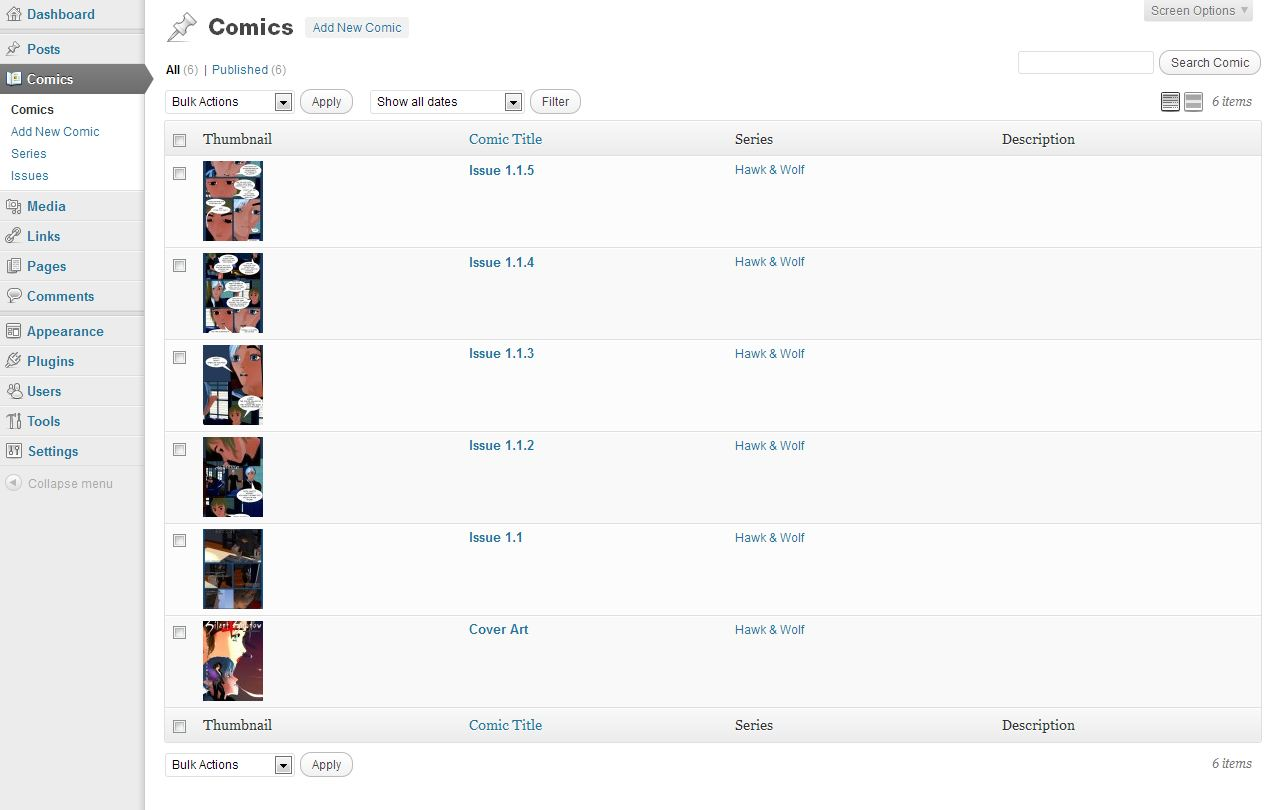
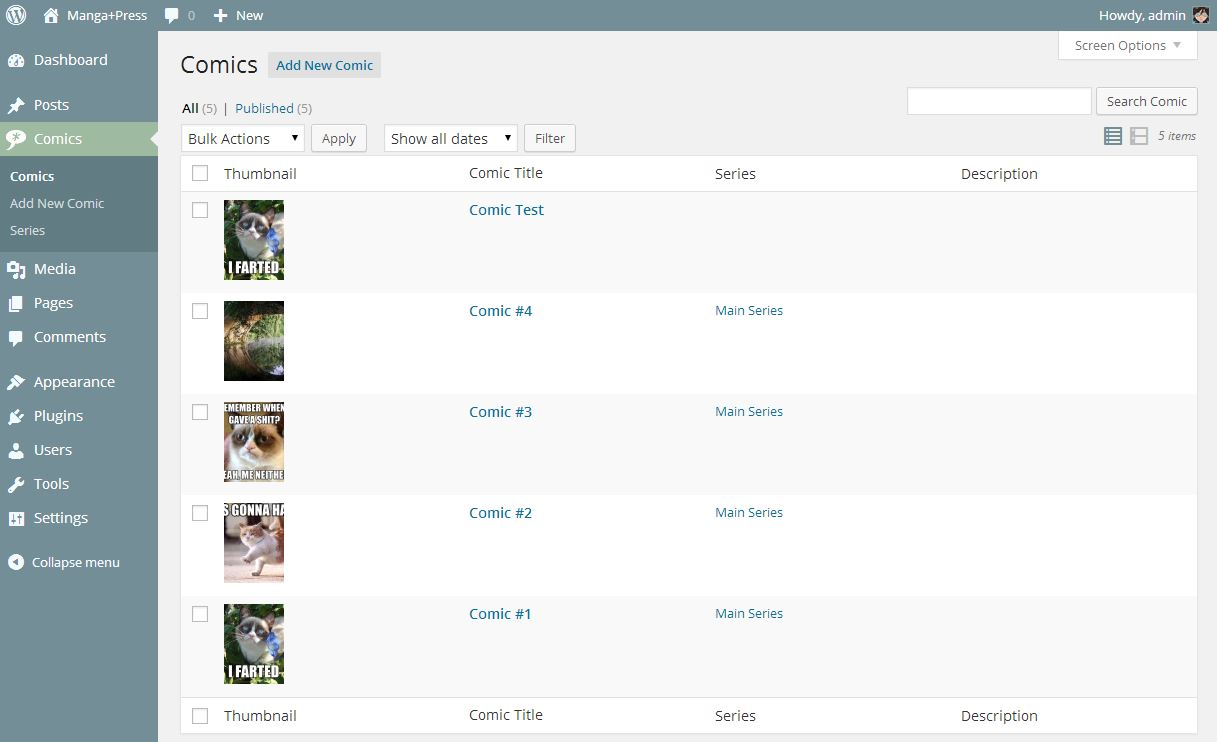
Adding TwentyFourteen child-theme. Updating screenshots.

diff --git a/themes/mp-twentyfourteen/style.css b/themes/mp-twentyfourteen/style.css
@@ -1,25 +1,21 @@
 /*
-Theme Name: Manga+Press Bundled Theme for TwentyThirteen
+Theme Name: Manga+Press Bundled Theme for TwentyTwelve
 Theme URI: http://www.mange-press.com
-Description: Default bundled theme for Manga+Press. Requires WordPress' TwentyThirteen theme.
+Description: Default bundled theme for Manga+Press. Requires WordPress' TwentyFourteen theme.
 Version: 1.1
 Author: Jess Green
 Author URI: http://www.jes.gs/
-Template: twentythirteen
+Template: twentyfourteen
 Tags: comics, comic theme, manga press, webcomics, online comics
 */
 
-.mangapress-comic-img {
-    margin: 0 auto;
-    width: 100%;
-    height: auto;
-}
-
 /* comic navigation */
 #comic-navigation {
-    text-align: center;
-    margin: 5px auto 10px;
-    max-width: 604px;
+    text-align: left;
+    margin: 5px 0 10px 0;
+    padding: 0;
+    clear: both;
+    float: none;
 }
 
 #comic-navigation a {
@@ -39,7 +35,7 @@ ul.comic-nav  {
     white-space: nowrap;
 }
 
-ul.comic-nav > li {
+ul.comic-nav li {
     display: inline;
     list-style-type: none;
 }

diff --git a/themes/mp-twentyfourteen/content.php b/themes/mp-twentyfourteen/content.php
@@ -1,0 +1,67 @@
+<?php
+/**
+ * The default template for displaying content
+ *
+ * Used for both single and index/archive/search.
+ *
+ * @package WordPress
+ * @subpackage Twenty_Fourteen
+ * @since Twenty Fourteen 1.0
+ */
+?>
+
+<article id="post-<?php the_ID(); ?>" <?php post_class(); ?>>
+	<?php twentyfourteen_post_thumbnail(); ?>
+
+	<header class="entry-header">
+                <?php mangapress_comic_navigation(); ?>
+		<?php if ( in_array( 'category', get_object_taxonomies( get_post_type() ) ) && twentyfourteen_categorized_blog() ) : ?>
+		<div class="entry-meta">
+			<span class="cat-links"><?php echo get_the_category_list( _x( ', ', 'Used between list items, there is a space after the comma.', 'twentyfourteen' ) ); ?></span>
+		</div>
+		<?php
+			endif;
+
+			if ( is_single() ) :
+				the_title( '<h1 class="entry-title">', '</h1>' );
+			else :
+				the_title( '<h1 class="entry-title"><a href="' . esc_url( get_permalink() ) . '" rel="bookmark">', '</a></h1>' );
+			endif;
+		?>
+
+		<div class="entry-meta">
+			<?php
+				if ( 'post' == get_post_type() )
+					twentyfourteen_posted_on();
+
+				if ( ! post_password_required() && ( comments_open() || get_comments_number() ) ) :
+			?>
+			<span class="comments-link"><?php comments_popup_link( __( 'Leave a comment', 'twentyfourteen' ), __( '1 Comment', 'twentyfourteen' ), __( '% Comments', 'twentyfourteen' ) ); ?></span>
+			<?php
+				endif;
+
+				edit_post_link( __( 'Edit', 'twentyfourteen' ), '<span class="edit-link">', '</span>' );
+			?>
+		</div><!-- .entry-meta -->
+	</header><!-- .entry-header -->
+
+	<?php if ( is_search() ) : ?>
+	<div class="entry-summary">
+		<?php the_excerpt(); ?>
+	</div><!-- .entry-summary -->
+	<?php else : ?>
+	<div class="entry-content">
+		<?php
+			the_content( __( 'Continue reading <span class="meta-nav">&rarr;</span>', 'twentyfourteen' ) );
+			wp_link_pages( array(
+				'before'      => '<div class="page-links"><span class="page-links-title">' . __( 'Pages:', 'twentyfourteen' ) . '</span>',
+				'after'       => '</div>',
+				'link_before' => '<span>',
+				'link_after'  => '</span>',
+			) );
+		?>
+	</div><!-- .entry-content -->
+	<?php endif; ?>
+
+	<?php the_tags( '<footer class="entry-meta"><span class="tag-links">', '', '</span></footer>' ); ?>
+</article><!-- #post-## -->

diff --git a/themes/mp-twentyfourteen/comics/latest-comic.php b/themes/mp-twentyfourteen/comics/latest-comic.php
@@ -1,0 +1,52 @@
+<?php
+/**
+ * MangaPress Default Theme
+ *
+ * @package Manga_Press
+ * @subpackage MPDefault\LatestComic
+ * @author Jess Green <jgreen@psy-dreamer.com>
+ * @version $Id$
+ */
+get_header();
+?>
+<div id="primary" class="site-content">
+    <div id="content" role="main">
+        <?php $latest_comic = mpp_get_latest_comic(); ?>
+        <?php
+        if ($latest_comic->have_posts()) :
+            while ($latest_comic->have_posts()) : $latest_comic->the_post();
+                ?>
+
+
+                <article id="post-<?php the_ID(); ?>" <?php post_class(); ?>>
+                    <header class="entry-header">
+                        <h1 class="entry-title"><?php the_title(); ?></h1>
+                    </header>
+
+                    <?php mangapress_comic_navigation($latest_comic); ?>
+
+                    <div class="entry-content">
+                        <p>
+                        <?php the_post_thumbnail(get_the_ID()); ?>
+                        </p>
+                        <?php the_content(); ?>
+                        <?php wp_link_pages(array('before' => '<div class="page-links">' . __('Pages:', 'twentytwelve'), 'after' => '</div>')); ?>
+                    </div><!-- .entry-content -->
+                    <footer class="entry-meta">
+                    <?php edit_post_link(__('Edit', 'twentytwelve'), '<span class="edit-link">', '</span>'); ?>
+                    </footer><!-- .entry-meta -->
+                </article><!-- #post -->
+
+
+                <?php comments_template('', true); ?>
+
+            <?php endwhile; // end of the loop. ?>
+        <?php
+        else :
+            locate_template(array('parts/404.php'), true);
+        endif;
+        ?>
+    </div><!-- #content -->
+</div><!-- #primary -->
+<?php get_sidebar(); ?>
+<?php get_footer(); ?>

diff --git a/themes/mp-twentyfourteen/comics/comic-archive.php b/themes/mp-twentyfourteen/comics/comic-archive.php
@@ -1,0 +1,34 @@
+<?php
+/**
+ * MangaPress Default Theme
+ *
+ * @package Manga_Press
+ * @subpackage MPDefault\LatestComic
+ * @author Jess Green <jgreen@psy-dreamer.com>
+ * @version $Id$
+ */
+get_header();?>
+<div id="primary">
+    <div id="content" role="main">
+        <article id="post-<?php the_ID(); ?>" <?php post_class(); ?>>
+            <header class="entry-header">
+                <h1 class="entry-title"><?php the_title(); ?></h1>
+            </header><!-- .entry-header -->
+
+            <div class="entry-content">
+                <?php the_content(); ?>
+                <ul>
+                    <?php $archives = new WP_Query(array('post_type' => 'mangapress_comic', 'posts_per_page' => -1)); ?>
+                    <?php if ($archives->have_posts()) : while ($archives->have_posts()) : $archives->the_post(); ?>
+                    <li><a href="<?php the_permalink(); ?>"><?php the_title(); ?></a></li>
+                    <?php endwhile; endif; ?>
+                </ul>
+            </div>
+            <footer class="entry-meta">
+                <?php edit_post_link(__('Edit', 'twentyeleven'), '<span class="edit-link">', '</span>'); ?>
+            </footer><!-- .entry-meta -->
+        </article>
+    </div><!-- #content -->
+</div><!-- #primary -->
+
+<?php get_footer(); ?>

diff --git a/themes/mp-twentyfourteen/comics/single-comic.php b/themes/mp-twentyfourteen/comics/single-comic.php
@@ -1,0 +1,37 @@
+<?php
+/**
+ * Single Comic Template
+ *
+ * @package Manga_Press_Templates
+ * @subpackage Single_Comic
+ * @version $Id$
+ * @author Jess Green <jgreen@psy-dreamer.com>
+ */
+get_header(); ?>
+
+	<div id="primary" class="content-area">
+		<div id="content" class="site-content" role="main">
+			<?php
+				// Start the Loop.
+				while ( have_posts() ) : the_post();
+                                         
+					/*
+					 * Include the post format-specific template for the content. If you want to
+					 * use this in a child theme, then include a file called called content-___.php
+					 * (where ___ is the post format) and that will be used instead.
+					 */
+					get_template_part( 'content', get_post_format() );
+
+					// If comments are open or we have at least one comment, load up the comment template.
+					if ( comments_open() || get_comments_number() ) {
+						comments_template();
+					}
+				endwhile;
+			?>
+		</div><!-- #content -->
+	</div><!-- #primary -->
+
+<?php
+get_sidebar( 'content' );
+get_sidebar();
+get_footer();

diff --git a/themes/mp-twentyfourteen/functions.php b/themes/mp-twentyfourteen/functions.php
@@ -34,16 +34,16 @@ function _disable_options($options)
     
 }
 
-add_action('wp_enqueue_scripts', 'mangapress_theme_load_twentythirteen_css');
+add_action('wp_enqueue_scripts', 'mangapress_theme_load_twentyfourteen_css');
 /**
  * Load the stylesheet from the TwentyEleven Theme
  * 
  * @return void
  */
-function mangapress_theme_load_twentythirteen_css()
+function mangapress_theme_load_twentyfourteen_css()
 {
     $src = get_template_directory_uri() . '/style.css';
-    wp_register_style('twentythirteen', $src, null, MP_VERSION);
+    wp_register_style('twentyfourteen', $src, null, MP_VERSION);
     
-    wp_enqueue_style('twentythirteen');
+    wp_enqueue_style('twentyfourteen');
 }

diff --git a/themes/mp-twentyeleven/functions.php b/themes/mp-twentyeleven/functions.php
@@ -42,7 +42,7 @@ add_action('wp_enqueue_scripts', 'mangapress_theme_load_twentyeleven_css');
  */
 function mangapress_theme_load_twentyeleven_css()
 {
-    $src = WP_CONTENT_URL . '/themes/twentyeleven/style.css';
+    $src = get_template_directory_uri() . '/style.css';
     wp_register_style('twentyeleven', $src, null, MP_VERSION);
     
     wp_enqueue_style('twentyeleven');

diff --git a/themes/mp-twentytwelve/functions.php b/themes/mp-twentytwelve/functions.php
@@ -42,7 +42,7 @@ add_action('wp_enqueue_scripts', 'mangapress_theme_load_twentytwelve_css');
  */
 function mangapress_theme_load_twentytwelve_css()
 {
-    $src = WP_CONTENT_URL . '/themes/twentytwelve/style.css';
+    $src = get_template_directory_uri() . '/style.css';
     wp_register_style('twentyeleven', $src, null, MP_VERSION);
     
     wp_enqueue_style('twentyeleven');

diff --git a/README.md b/README.md
@@ -17,7 +17,6 @@ keep track of your comic posts. Manga+Press also includes its own custom templat
    * Corrected 404 issues for custom post-type after activation
    * Adjusted template stack for single comics
    * Added new Media Library popup (eliminating legacy ThickBox dependency)
-     * Added WordPress 3.5 Media Library window
    * Code review and cleanup   
    * Removed legacy options (Comic Banner)
 
